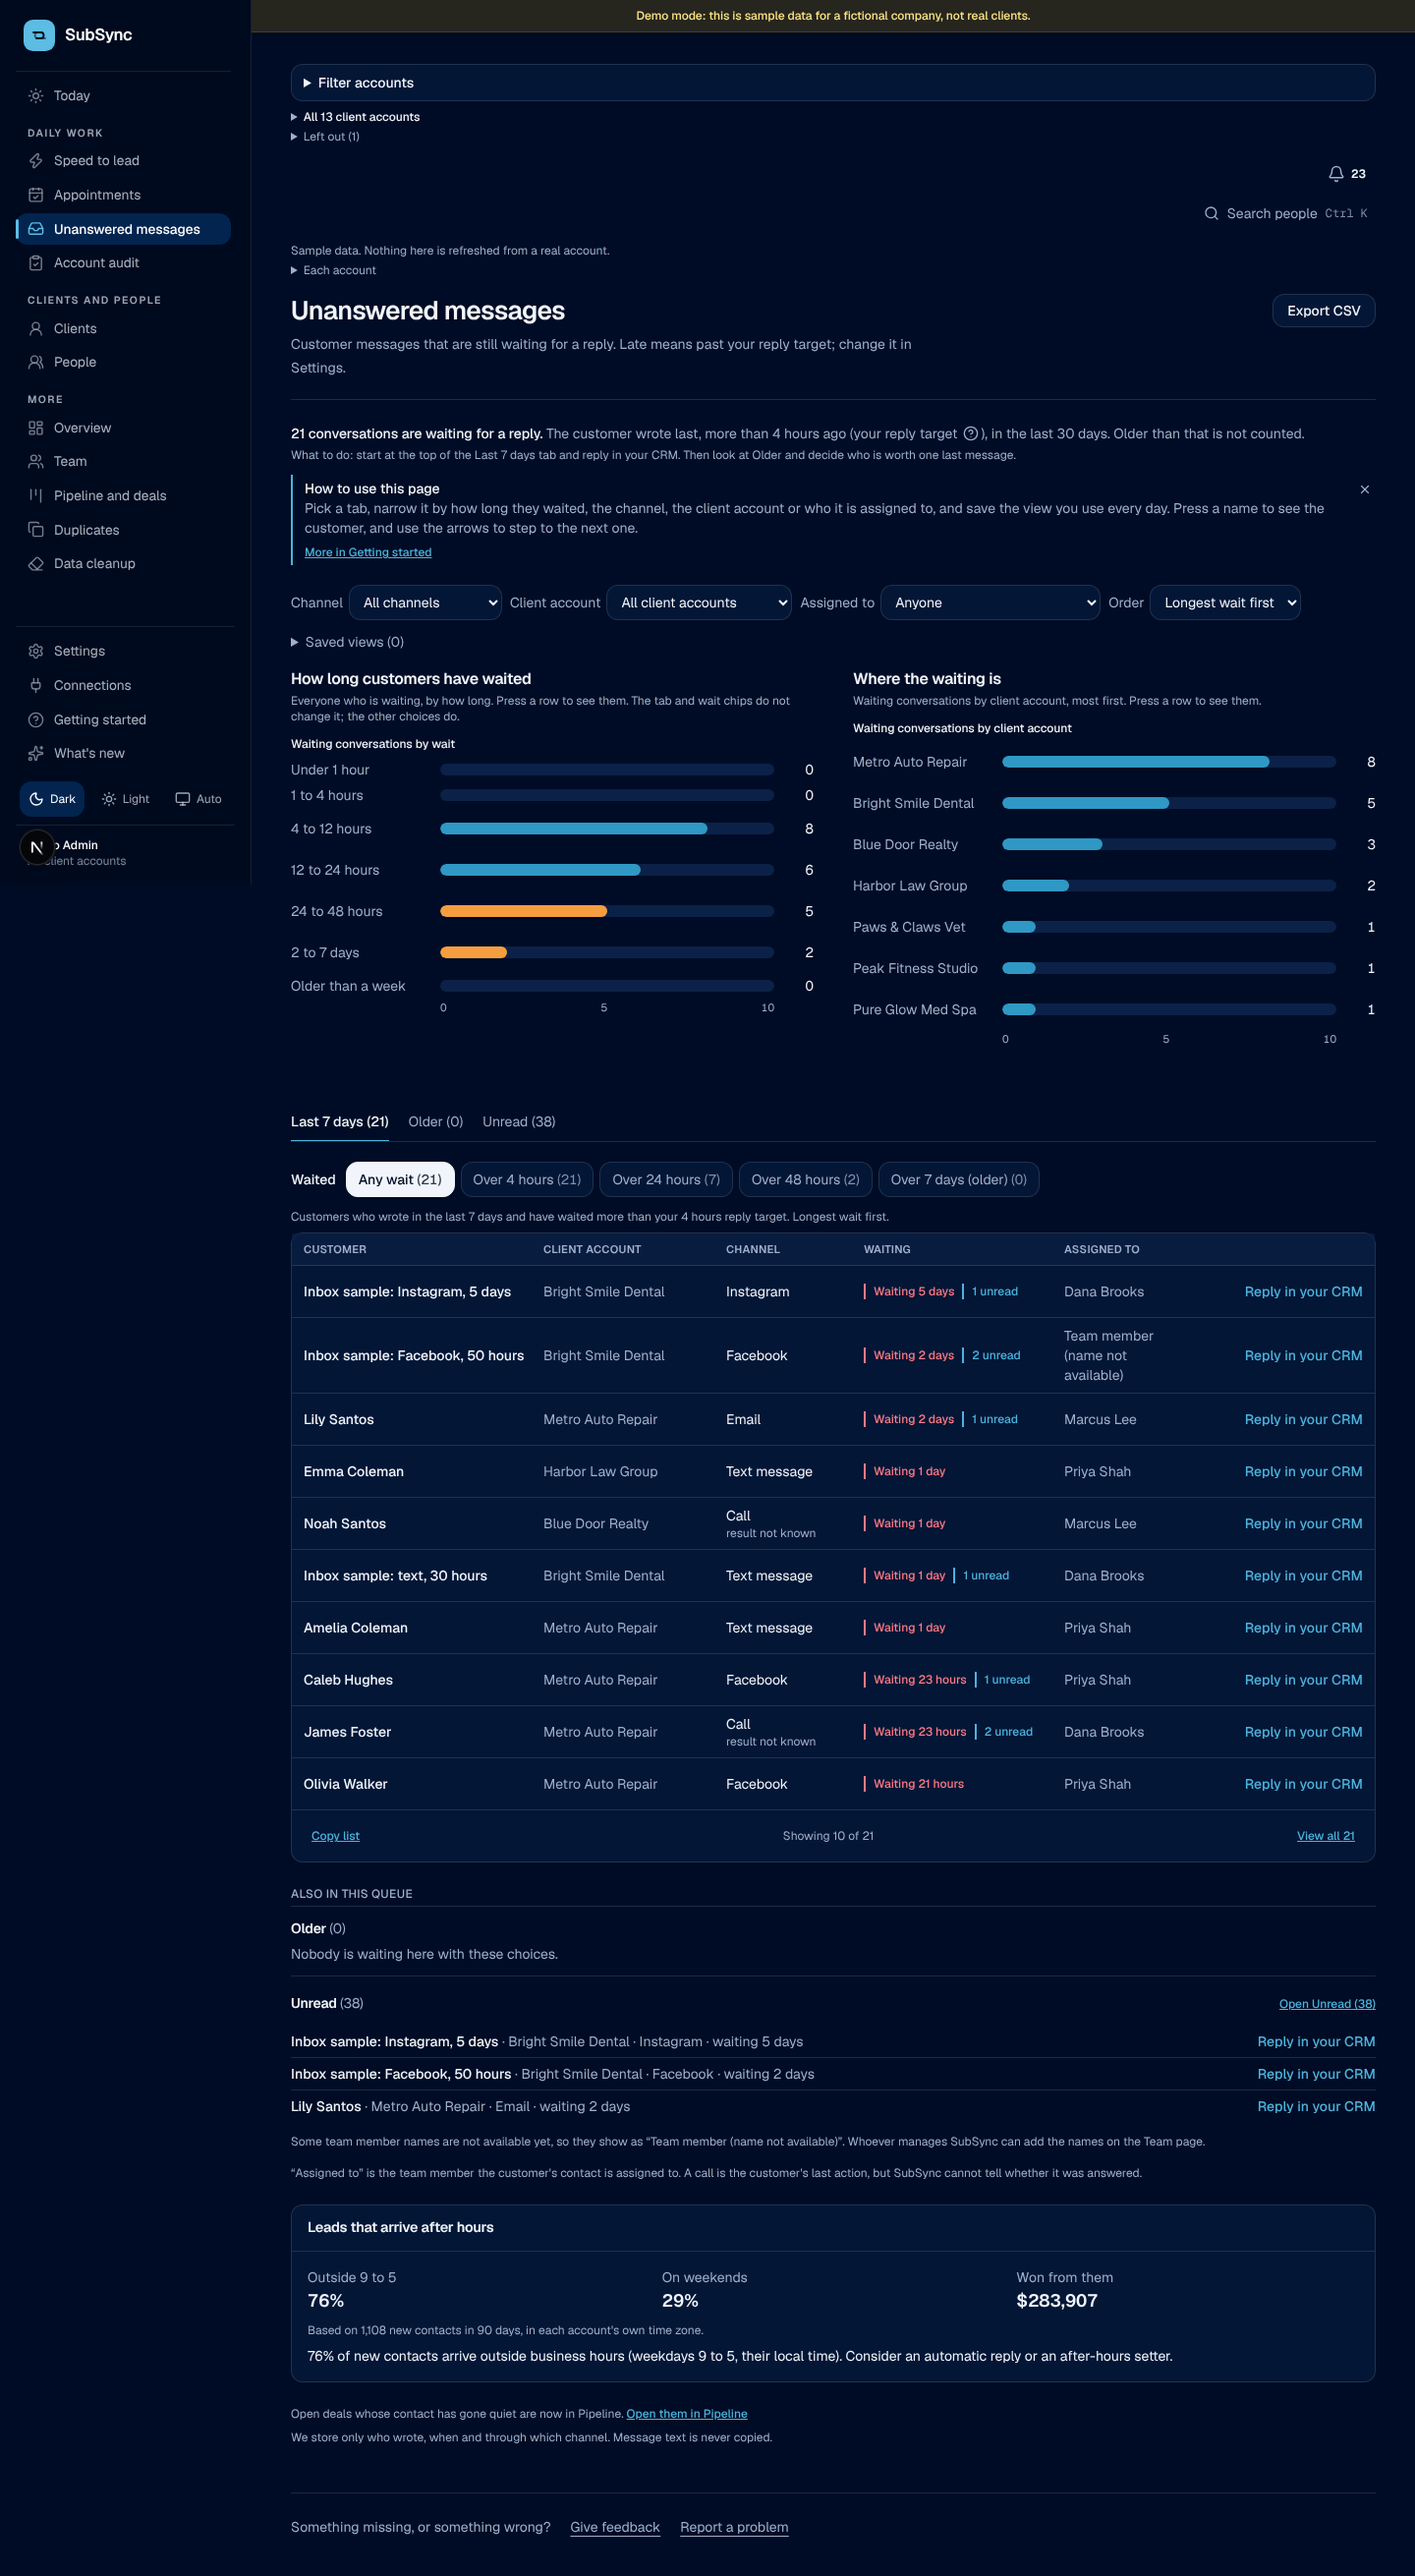
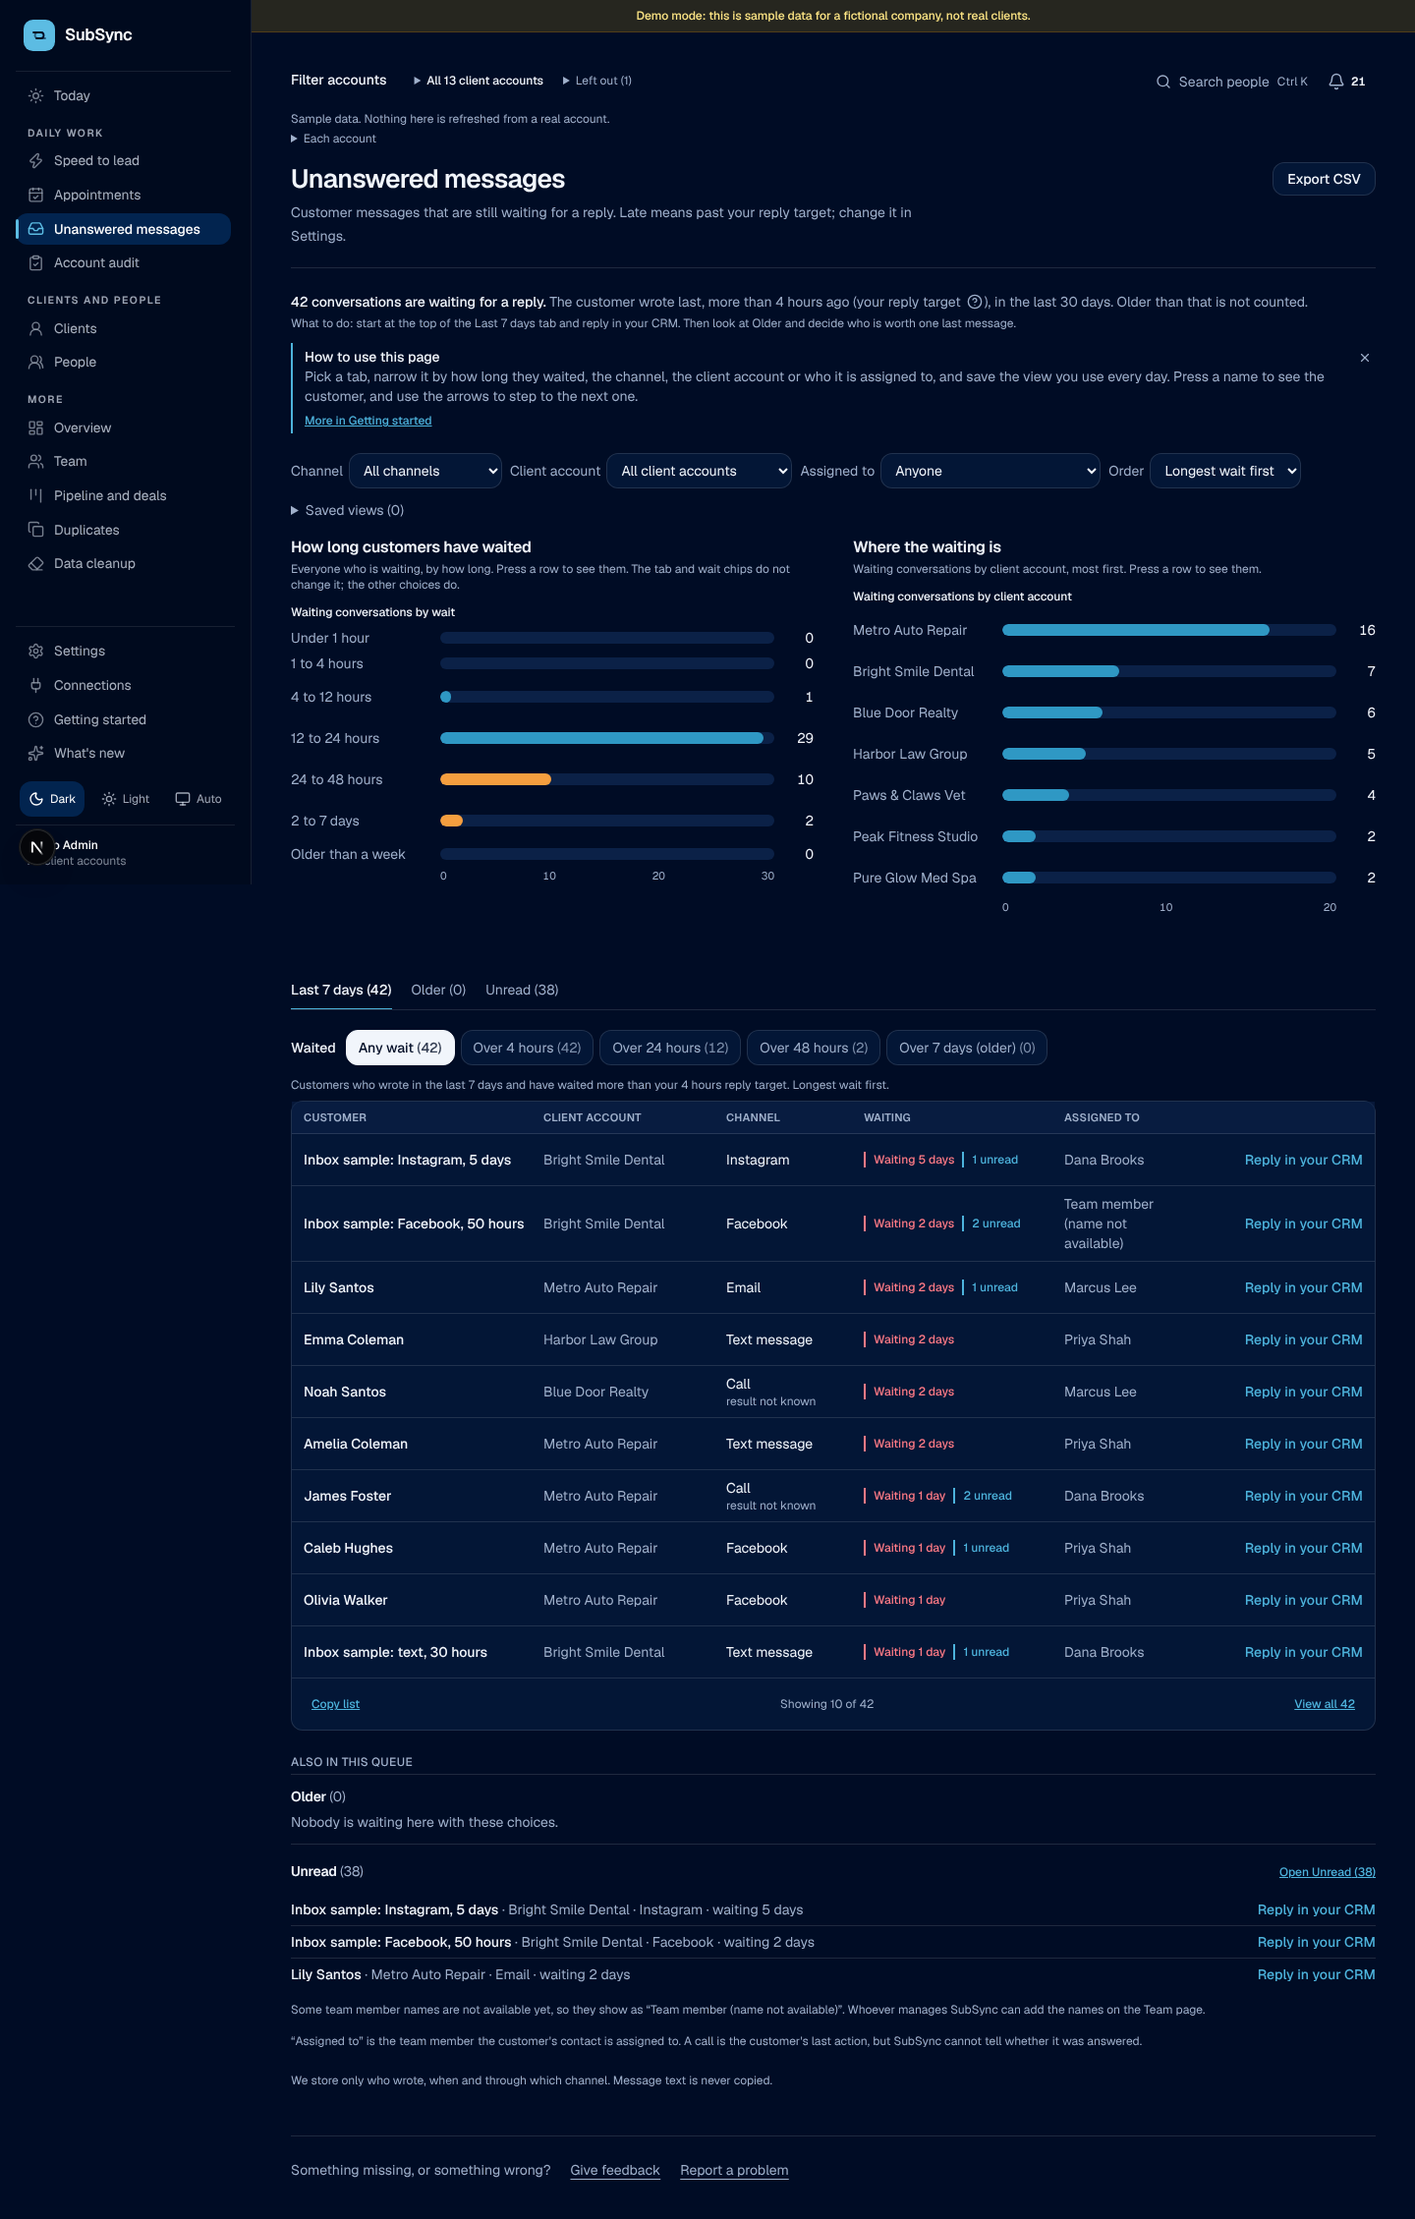
f4 spec follows the removed Pipeline signpost; refreshed screenshots
Claude-Session: https://claude.ai/code/session_01YASewFVTg1Jmasb9k8W2mA

diff --git a/tests/e2e/f4.spec.ts b/tests/e2e/f4.spec.ts
@@ -225,7 +225,9 @@ test("the wait chart: pressing a row opens the conversations behind it, the same
 test("open deals with no contact are under Pipeline, with the same total as the server counts, and not on this page", async ({ page, request }) => {
   await open(page);
   await expect(page.getByText("Open deals with no contact", { exact: false })).toHaveCount(0);
-  await page.getByRole("button", { name: "Open them in Pipeline" }).click();
+  await expect(page.getByTestId("deals-moved")).toHaveCount(0); // the signpost was removed (simplify cut 4); Pipeline is reached from the menu
+  await page.getByRole("button", { name: "Pipeline and deals" }).first().click();
+  await page.getByRole("tab", { name: "Stale deals and hygiene" }).click();
   await page.getByRole("tab", { name: "No recent contact" }).click();
   const panel = page.getByTestId("quiet-deals");
   await expect(panel).toBeVisible();
@@ -234,7 +236,6 @@ test("open deals with no contact are under Pipeline, with the same total as the 
   else await expect(page.getByTestId("quiet-total")).toContainText(String(gaps.total).replace(/\B(?=(\d{3})+(?!\d))/g, ","));
   await page.getByTestId("quiet-14").click();
   await expect(page.getByTestId("quiet-14")).toHaveAttribute("aria-pressed", "true");
-  await expect(page.getByTestId("back-link")).toBeVisible();
 });
 
 test("no word SLA on the page, in Overview or in Settings; the reply target is named", async ({ page }) => {
